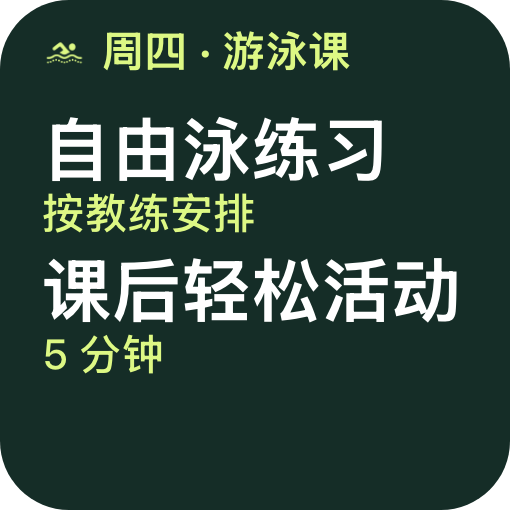
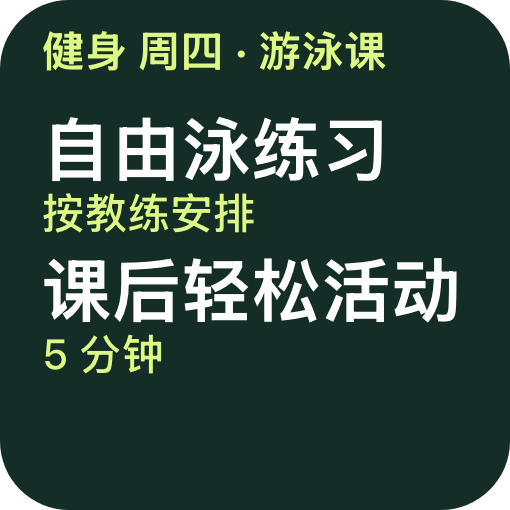
添加完整主屏幕真机截图并更新七天预览

Changed region(s): [[0.0882, 0.0588, 0.7647, 0.1471]]

diff --git a/README.md b/README.md
@@ -1,10 +1,12 @@
-# 今日练什么
+# 健身
 
-点亮 iPhone，就能在锁屏看到今天练哪些动作。主屏幕的小号组件用大字列出动作名称。到了健身房，轻点组件就能查看每个动作做几组、每组做几次、组间休息多久。
+「健身」按星期显示当天的训练计划。点亮 iPhone 就能在锁屏看到动作，主屏幕的小号组件用大字逐行列出动作名称。到了健身房，轻点组件就能查看每个动作做几组、每组做几次、组间休息多久。
 
 ## iPhone 主屏幕真机截图
 
-周二的「背和二头」训练在主屏幕上直接列出五个动作。下图截自 iPhone 镜像，保留了小组件所在的主屏幕局部。
+整屏截图展示训练组件在 iPhone 主屏幕上的位置，局部截图可看清周二的五个动作。两张图均摄于更名前。整屏图已模糊壁纸人脸和通知角标数字，最新卡片标题可在下方七天预览中查看。
+
+<a href="docs/screenshots/iphone-full.png"><img src="docs/screenshots/iphone-full.png" width="300" alt="iPhone 主屏幕整屏真机截图，顶部左侧是周二的训练小组件"></a>
 
 <a href="docs/screenshots/iphone-home.png"><img src="docs/screenshots/iphone-home.png" width="300" alt="iPhone 主屏幕上的周二训练小组件，依次显示高位下拉、坐姿划船、胸托划船、面拉和哑铃弯举"></a>
 
@@ -24,19 +26,23 @@
 
 1. 从 App Store 免费安装并打开一次 [Scriptable](https://apps.apple.com/app/id1405459188)。它负责运行这个小组件，无需开发者账号、自签或开启通知。
 2. 用 Safari [下载脚本和配图（ZIP）](https://github.com/RedInn7/DailyMove/archive/refs/heads/main.zip)。在“文件”App 中进入“下载项”，轻点下载的 ZIP 文件解压。
-3. 打开解压出来的文件夹，再进入里面的 `Scriptable` 文件夹。把 [今日练什么.js](Scriptable/今日练什么.js) 复制到 **iCloud 云盘 → Scriptable**，让脚本直接放在这个目录下。
+3. 打开解压出来的文件夹，再进入里面的 `Scriptable` 文件夹。把 [健身.js](Scriptable/健身.js) 复制到 **iCloud 云盘 → Scriptable**，让脚本直接放在这个目录下。
 4. 如果希望训练详情页显示配图，把整个 [DailyMoveArt 文件夹](Scriptable/DailyMoveArt) 也复制到同一位置，保留文件夹名称。只复制脚本也能查看完整训练计划。
-5. 回到 Scriptable，轻点 **今日练什么**。看到今天的动作和组数，就可以把它放到屏幕上了。
+5. 回到 Scriptable，轻点 **健身**。看到今天的动作和组数，就可以把它放到屏幕上了。
 
 ## 把组件放到屏幕上
 
 ### 主屏幕
 
-长按主屏幕空白处，轻点 **编辑 → 添加小组件**（部分系统显示 **＋**）。搜索 **Scriptable**，选小号方形组件并添加。长按刚添加的组件，选 **编辑小组件**，在 **Script（脚本）** 中选择 **今日练什么**。
+长按主屏幕空白处，轻点 **编辑 → 添加小组件**（部分系统显示 **＋**）。搜索 **Scriptable**，选小号方形组件并添加。长按刚添加的组件，选 **编辑小组件**，在 **Script（脚本）** 中选择 **健身**。
+
+卡片内的标题显示「健身」。卡片下方的系统标签由 iOS 显示为「Scriptable」。[Scriptable 作者关于组件标签的说明](https://talk.automators.fm/t/blank-customisable-widget-labels/10090/2)
+
+已安装旧版「今日练什么」的用户，复制新版脚本后可长按原组件，在 **编辑小组件 → Script** 中改选 **健身**。
 
 ### 锁定屏幕
 
-长按已解锁的锁定屏幕，选 **自定 → 锁定屏幕**。轻点时间下方的小组件区域，选择 **Scriptable** 的矩形组件。关闭组件选择面板后，轻点刚放好的矩形，在 **Script（脚本）** 中选择 **今日练什么**，再轻点 **完成**。
+长按已解锁的锁定屏幕，选 **自定 → 锁定屏幕**。轻点时间下方的小组件区域，选择 **Scriptable** 的矩形组件。关闭组件选择面板后，轻点刚放好的矩形，在 **Script（脚本）** 中选择 **健身**，再轻点 **完成**。
 
 组件按 iPhone 当地日期选择训练。脚本会在次日零点请求刷新，实际更新时间由 iOS 决定。[Scriptable 刷新说明](https://docs.scriptable.app/listwidget/#refreshafterdate)
 
